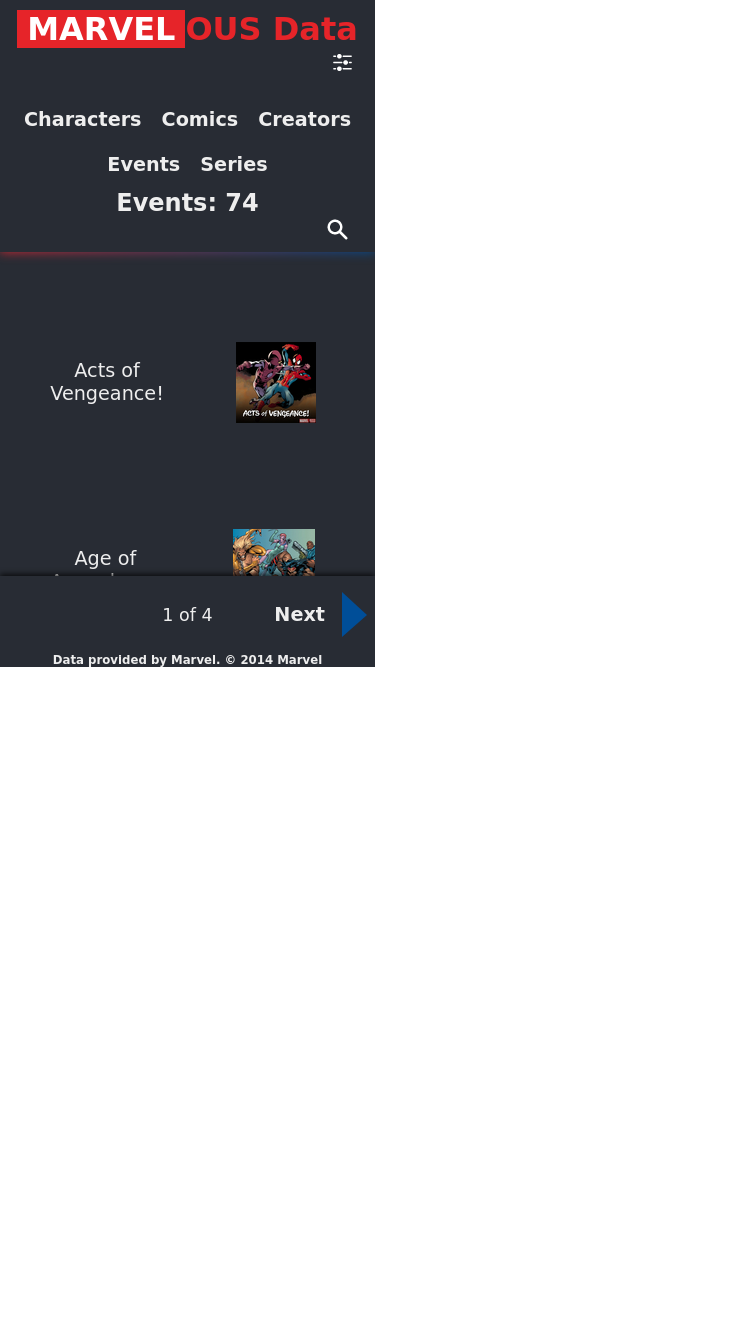
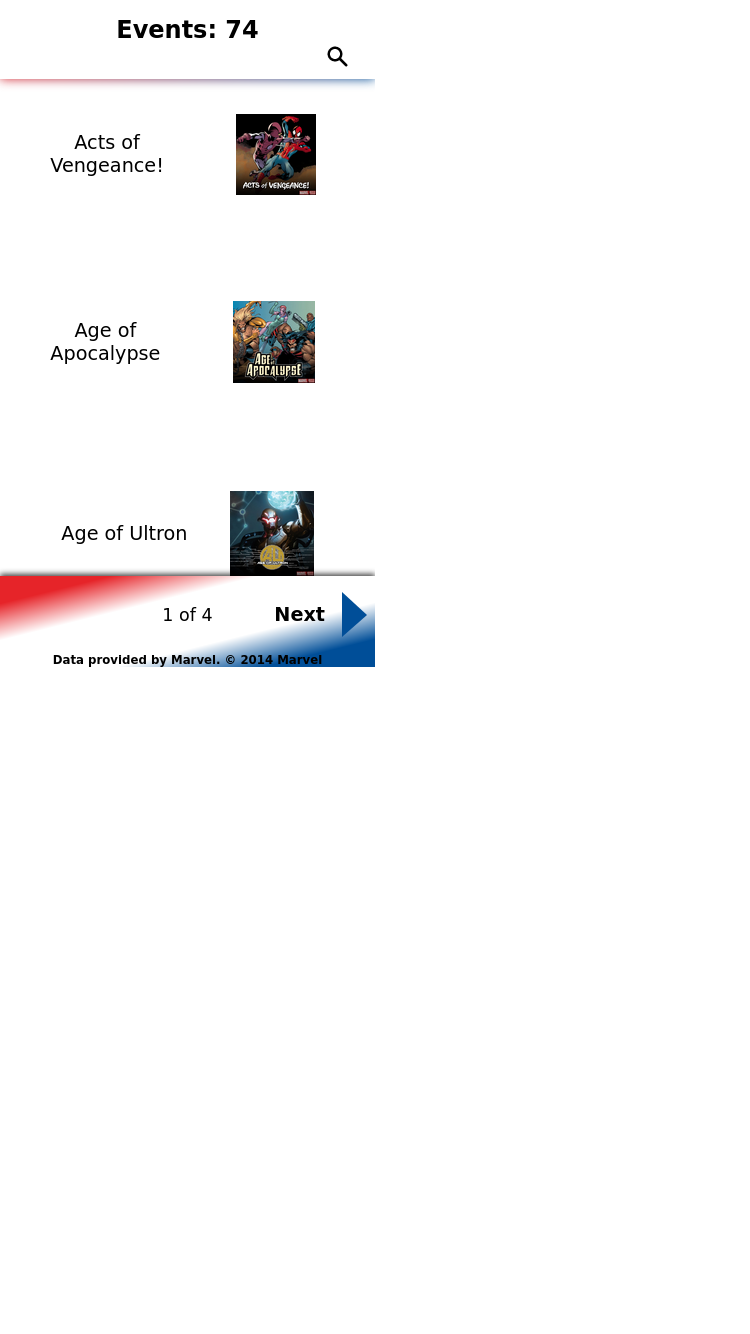
updated readme

Changed region(s): [[0.0, 0.0, 0.5213, 0.5225]]

diff --git a/README.md b/README.md
@@ -6,11 +6,10 @@ Desktop version - Grid View - Dark Mode
 
 ![desktop version](/screenshots/desktop.png)
 
-Mobile version - List View
+Mobile version - List View - Light Mode
 
 ![mobile version](/screenshots/mobile.png)
-![mobile version](/screenshots/mobile2.png)
-![mobile version](/screenshots/mobile3.png)
+
 
 ### Links
 
